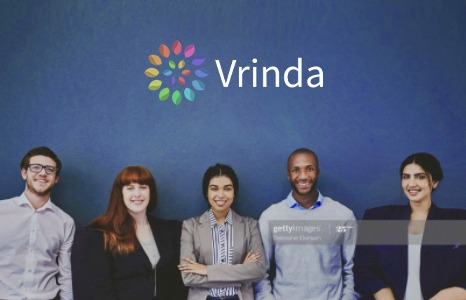
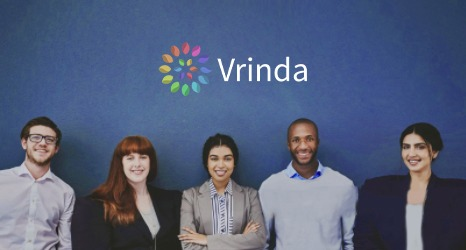
contact improvements

diff --git a/services.html b/services.html
@@ -23,6 +23,7 @@
 
 </head>
 <body>
+
 	<!-- Optional JavaScript -->
     <!-- jQuery first, then Popper.js, then Bootstrap JS -->
 	<script src="https://code.jquery.com/jquery-3.5.1.slim.min.js" integrity="sha384-DfXdz2htPH0lsSSs5nCTpuj/zy4C+OGpamoFVy38MVBnE+IbbVYUew+OrCXaRkfj" crossorigin="anonymous"></script>
@@ -102,14 +103,15 @@
   <!-- service section -->
   <section class="service-section">
     <span class="section-link" id="execsearch"></span>
-    <div class="text-center" style="position: relative;">
+    <div style="position: relative;">
       <img class="img-fluid banner-image" style="width: 100%;" src="assets/s1.jpeg">
-      <div class="banner-head bh-styling">Executive Search</div>
+      
+      <div class="bh-styling banner-head">Executive Search</div>
     </div>
     <div class="container" style="margin-top: 10px;margin-bottom: 10px;">
       <div class="row">
         <div class="col-md-1"></div>
-        <div class="col-md-10" style="padding:0; margin-left: 25px; margin-right: 25px; margin-top: 18px;">
+        <div class="col-md-10 mbt text-justify" style="padding:0; margin-top: 18px;">
           <p class="bd-styling">Our executive search practice focuses on senior executive, board and C-Suite searches. The
 world’s leading brands seek our counsel to build best-in-class leadership teams, to manage
 performance, and for succession planning. </p>
@@ -146,7 +148,7 @@ performance, and for succession planning. </p>
           including some benchmarks, and
           leaders in various industries on their
           markets.</p-->
-          <p> </p> 
+          <p>Lorem ipsum dolor sit amet, consectetur adipiscing elit. Cras sit amet congue sem, a tincidunt sapien. Aliquam lobortis in ipsum.</p> 
           <br>
         </div>
       </div>
@@ -161,7 +163,7 @@ performance, and for succession planning. </p>
           you and your organization to
           thrive in the new era of
           talent acquisition.</p-->
-          <p></p>
+          <p>Lorem ipsum dolor sit amet, consectetur adipiscing elit. Cras sit amet congue sem, a tincidunt sapien. Aliquam lobortis in ipsum.</p>
         </div>
       </div>
       <div class="class_about_box col class_col_border">
@@ -169,7 +171,7 @@ performance, and for succession planning. </p>
           <img class="icon-image" height="50" width="55" src="assets/Asset 17Vrinda Services.jpg">
           <br><br>
           <span class="icon-description">Transnational Organisation</span>
-          <p></p>
+          <p>Lorem ipsum dolor sit amet, consectetur adipiscing elit. Cras sit amet congue sem, a tincidunt sapien. Aliquam lobortis in ipsum.</p>
         </div>
       </div>
       <div class="class_about_box col class_col_border">
@@ -177,7 +179,7 @@ performance, and for succession planning. </p>
           <img class="icon-image" height="50" width="55" src="assets/Asset 25Vrinda Services.jpg">
           <br><br>
           <span class="icon-description">Experience and Expertise</span>
-          <p></p>
+          <p>Lorem ipsum dolor sit amet, consectetur adipiscing elit. Cras sit amet congue sem, a tincidunt sapien. Aliquam lobortis in ipsum.</p>
         </div>
       </div>
       <div class="class_about_box col class_col_border">
@@ -186,7 +188,7 @@ performance, and for succession planning. </p>
           <br><br>
           <span class="icon-description">Access of
 Global Talent</span>
-          <p></p>
+          <p>Lorem ipsum dolor sit amet, consectetur adipiscing elit. Cras sit amet congue sem, a tincidunt sapien. Aliquam lobortis in ipsum.</p>
         </div>
       </div> 
       <div class="class_about_space2 col-md-1 class_col_border"> 
@@ -229,7 +231,7 @@ Global Talent</span>
 
         </div>
         <div class="col-12 col-sm-7 col-lg-2 class_know_more_full">
-          <button class="button-style-2" style="margin-left: 10px; margin-top: 9px; margin-bottom: 9px ;box-shadow: 2px 2px 5px -1px #fff; margin-right: 0px;">
+          <!-- <button class="button-style-2" style="margin-left: 10px; margin-top: 9px; margin-bottom: 9px ;box-shadow: 2px 2px 5px -1px #053a5e; margin-right: 0px;">
                   <table>
                     <tbody><tr>
                       
@@ -239,7 +241,8 @@ Global Talent</span>
                     </tr>
                   </tbody>
                   </table>
-          </button>
+          </button> -->
+          <a href="#" class="buttonDownload"><span style="text-align: left;">Download</span></a>
         </div>
         
         <div class="col-md-1" style="padding-left: 15px;"></div>

diff --git a/contact.html b/contact.html
@@ -85,14 +85,40 @@
 
 
     <!-- NEW CODE BEGINS -->
-  <div class="text-center" style="position: relative;">
+  <div class="text-center" style="position: relative; margin-bottom: 20px;">
       <img class="img-fluid banner-image" style="width: 100%;" src="assets/contactbanner.jpeg">
       <div class="banner-head bh-styling">Contact Us</div>
   </div>
+  <section>
+    
+    <div class="container">
+      <div class="row">
+        <div class="col-md-1"></div>
+        <div class="col-md col-bg-2 col-mgn-2">
+          <p class="horiz bgt">Hiring</p>
+          <p> siddarth@vrindaglobal.com </p>
+        </div>
+        <div class="col-md col-bg-2 col-mgn-2">
+          <p class="horiz bgt">Apply for Job</p>
+          <p> sarvjeet@vrindaglobal.com </p>
+        </div>
+        <div class="col-md col-bg-2 col-mgn-3">
+          <p class="horiz bgt">Escalation</p>
+          <p> prashant@vrindaglobal.com </p>
+        </div>
+        <dif class="col-md-1"></dif>
+      </div>
+      
+    </div>
+
+  </section>
+  <br>
 	<div style="background-color: #f1f2f2;">
 	<div id="offices"></div>
 	<br><br>
-	<section>
+  
+  <section>
+
 		<div class="container">
 			<div class="row">
 				<div class="col-lg-1"></div>
@@ -243,65 +269,8 @@
   </div>
   <div id="reachus"></div>
   <br>
-	<section>
-		<!-- <div class="container">
-			<div class="row">
-				<div class="col-2"></div>
-				<div class="col formbg">
-					<br>
-					<img width="60" height="55" src="assets/icon_5.png">&nbsp
-          <span style="font-weight: 700; font-size: 20px;"> Contact Form </span>
-					<br><br>
-					<form>
-						<input class="line" type="text" name="rname" placeholder="Your Name (*)" maxlength="40" required><br><br>
-						<input class="line" type="email" name="emailid" placeholder="Your Email (*)" maxlength="50" required><br><br>
-						<textarea class="line2" rows="5" placeholder="Your Message (*)" name="message"
-						maxlength="100" required></textarea> <br><br>
-						<input type="submit" class="submit_style" name="submit_button" value="SEND">
-
-					</form>
-					<br>
-				</div>
-        
-				<div class="col-2"></div>
-			</div>
-		</div> -->
-    <div class="container">
-      <div class="row">
-        <div class="col-md-1"></div>
-        <div class="col-lg col-bg-2 col-mgn-2">
-          <p> For Job Queries </p>
-          <p> prashant@vrindaglobal.com </p>
-        </div>
-        <div class="col-lg col-bg-2 col-mgn-2">
-          <p> For Job Queries </p>
-          <p> dipankar@vrindaglobal.com </p>
-        </div>
-        <div class="col-lg col-bg-2 col-mgn-2">
-          <p> For Job Queries </p>
-          <p> rashi@vrindaglobal.com </p>
-        </div>
-        <dif class="col-md-1"></dif>
-      </div>
-      <div class="row">
-        <div class="col-md-1"></div>
-        <div class="col-lg col-bg-2 col-mgn-2">
-          <p> For Job Queries </p>
-          <p> siddarth@vrindaglobal.com </p>
-        </div>
-        <div class="col-lg col-bg-2 col-mgn-2">
-          <p> For Job Queries </p>
-          <p> kamal@vrindaglobal.com </p>
-        </div>
-        <div class="col-lg col-bg-2 col-mgn-2">
-          <p> For Job Queries </p>
-          <p> sarvjeet@vrindaglobal.com </p>
-        </div>
-        <div class="col-md-1"></div>
-      </div>
-    </div>
-	</section>
-	<br><br>
+	
+	
     <!--div class="jumbotron jumbotron-fluid jumbotro">
       
       <iframe style="width:100%;" height="480" src="https://www.google.com/maps/d/embed?mid=1RnPHK5SCFweM9LVFm70zxSQ2wXee8a3F&hl=en"></iframe>

diff --git a/style/services.css b/style/services.css
@@ -77,6 +77,7 @@ ul > li {
 .mbt {
 	margin-left: 10px;
 	margin-bottom: 3px;
+	margin-right: 10px;
 }
 .button-style-1 {
 	width: 35px;
@@ -194,10 +195,10 @@ h6 {
 	border: none;
 	outline: none;
 }
-@media screen and (max-width: 600px) {
+@media screen and (max-width: 660px) {
 	.banner-head {
 		position: absolute; 
-		left: 0.5%; 
+		left: 0; 
 		top: 50%; 
 		transform: translate(50%, -50%);
 	}
@@ -212,10 +213,10 @@ h6 {
 		font-size: 14px;
 	}
 }
-@media screen and (min-width: 601px) and (max-width: 1024px) {
+@media screen and (min-width: 661px) and (max-width: 1024px) {
 	.banner-head {
 		position: absolute; 
-		left: 20%; 
+		left: 30px; 
 		top: 50%; 
 		transform: translate(50%, -50%);
 	}
@@ -229,7 +230,7 @@ h6 {
 @media screen and (min-width: 1025px) {
 	.banner-head {
 		position: absolute; 
-		left: 20%; 
+		left: 100px; 
 		top: 50%; 
 		transform: translate(50%, -50%);
 	}
@@ -240,3 +241,89 @@ h6 {
 	}
 }
 
+
+
+.buttonDownload {
+	margin-top: 10px;
+	display: inline-block;
+	position: relative;
+	padding: 10px 25px;
+  
+	background-color: #fff;
+	color: #165e9e;
+  
+	font-family: sans-serif;
+	text-decoration: none;
+	font-size: 0.9em;
+	text-align: center;
+	text-indent: 15px;
+}
+
+.buttonDownload:hover {
+	background-color: #165e9e;
+	color: white;
+}
+
+.buttonDownload:before, .buttonDownload:after {
+	content: ' ';
+	display: block;
+	position: absolute;
+	left: 15px;
+	top: 52%;
+}
+
+/* Download box shape  */
+.buttonDownload:before {
+	width: 10px;
+	height: 2px;
+	border-style: solid;
+	border-width: 0 2px 2px;
+}
+
+/* Download arrow shape */
+.buttonDownload:after {
+	width: 0;
+	height: 0;
+	margin-left: 3px;
+	margin-top: -7px;
+  
+	border-style: solid;
+	border-width: 4px 4px 0 4px;
+	border-color: transparent;
+	border-top-color: inherit;
+	
+	animation: downloadArrow 2s linear infinite;
+	animation-play-state: paused;
+}
+
+.buttonDownload:hover:before {
+	border-color: #fff;
+}
+
+.buttonDownload:hover:after {
+	border-top-color: #fff;
+	animation-play-state: running;
+}
+
+/* keyframes for the download icon anim */
+@keyframes downloadArrow {
+	/* 0% and 0.001% keyframes used as a hackish way of having the button frozen on a nice looking frame by default */
+	0% {
+		margin-top: -7px;
+		opacity: 1;
+	}
+	
+	0.001% {
+		margin-top: -15px;
+		opacity: 0;
+	}
+	
+	50% {
+		opacity: 1;
+	}
+	
+	100% {
+		margin-top: 0;
+		opacity: 0;
+	}
+}

diff --git a/js/services_sections_gen.js b/js/services_sections_gen.js
@@ -10,7 +10,7 @@ $(document).ready(function() {
 		person-email
 	*/
 	var sec_ids = ["inter_rec", "perm_rec", "staffing", "recpo"];
-	var bheads = ["International<br> Recruitment", "Permanent<br> Recruitment", "Staffing Solutions", "Recruitment<br> Process<br> Outsourcing"];
+	var bheads = ["International<br> Recruitment", "Permanent<br> Recruitment", "Staffing Solutions", "Recruitment Process<br> Outsourcing"];
 	var bimgs = ["assets/s2.jpeg", "assets/s3.jpeg", "assets/s4.jpeg", "assets/s5.jpeg"];
 	var pnames = ["Siddarth Puri", "Dipankar Dutt", "Sarvjeet Singh Midha", "Siddarth Puri"];
 	var pmails = ["siddarth@vrindaglobal.com", "dipankar@vrindaglobal.com", "sarvjeet@vrindaglobal.com", "siddarth@vrindaglobal.com"];

diff --git a/style/contact.css b/style/contact.css
@@ -16,6 +16,7 @@ td {
 td > span {
 
 }
+
 .jumbotro {
 	margin: 0;
 	padding: 0;
@@ -81,11 +82,21 @@ textarea:focus {
 }
 
 .col-bg-2 {
-	background-color: #F1F2F2;
+	background-color: #FFFF;
 	font-size: 13px;
 }
+
+@media screen and (min-width: 767px) {
+	.col-mgn-2 {
+		border-right: 1px solid #d3d3d3;
+		padding-top: 10px;
+	}
+}
 .col-mgn-2 {
-	margin: 15px;
+	padding-top: 10px;
+}
+.col-mgn-3 {
+	
 	padding-top: 10px;
 }
 @media screen and (max-width: 600px) {
